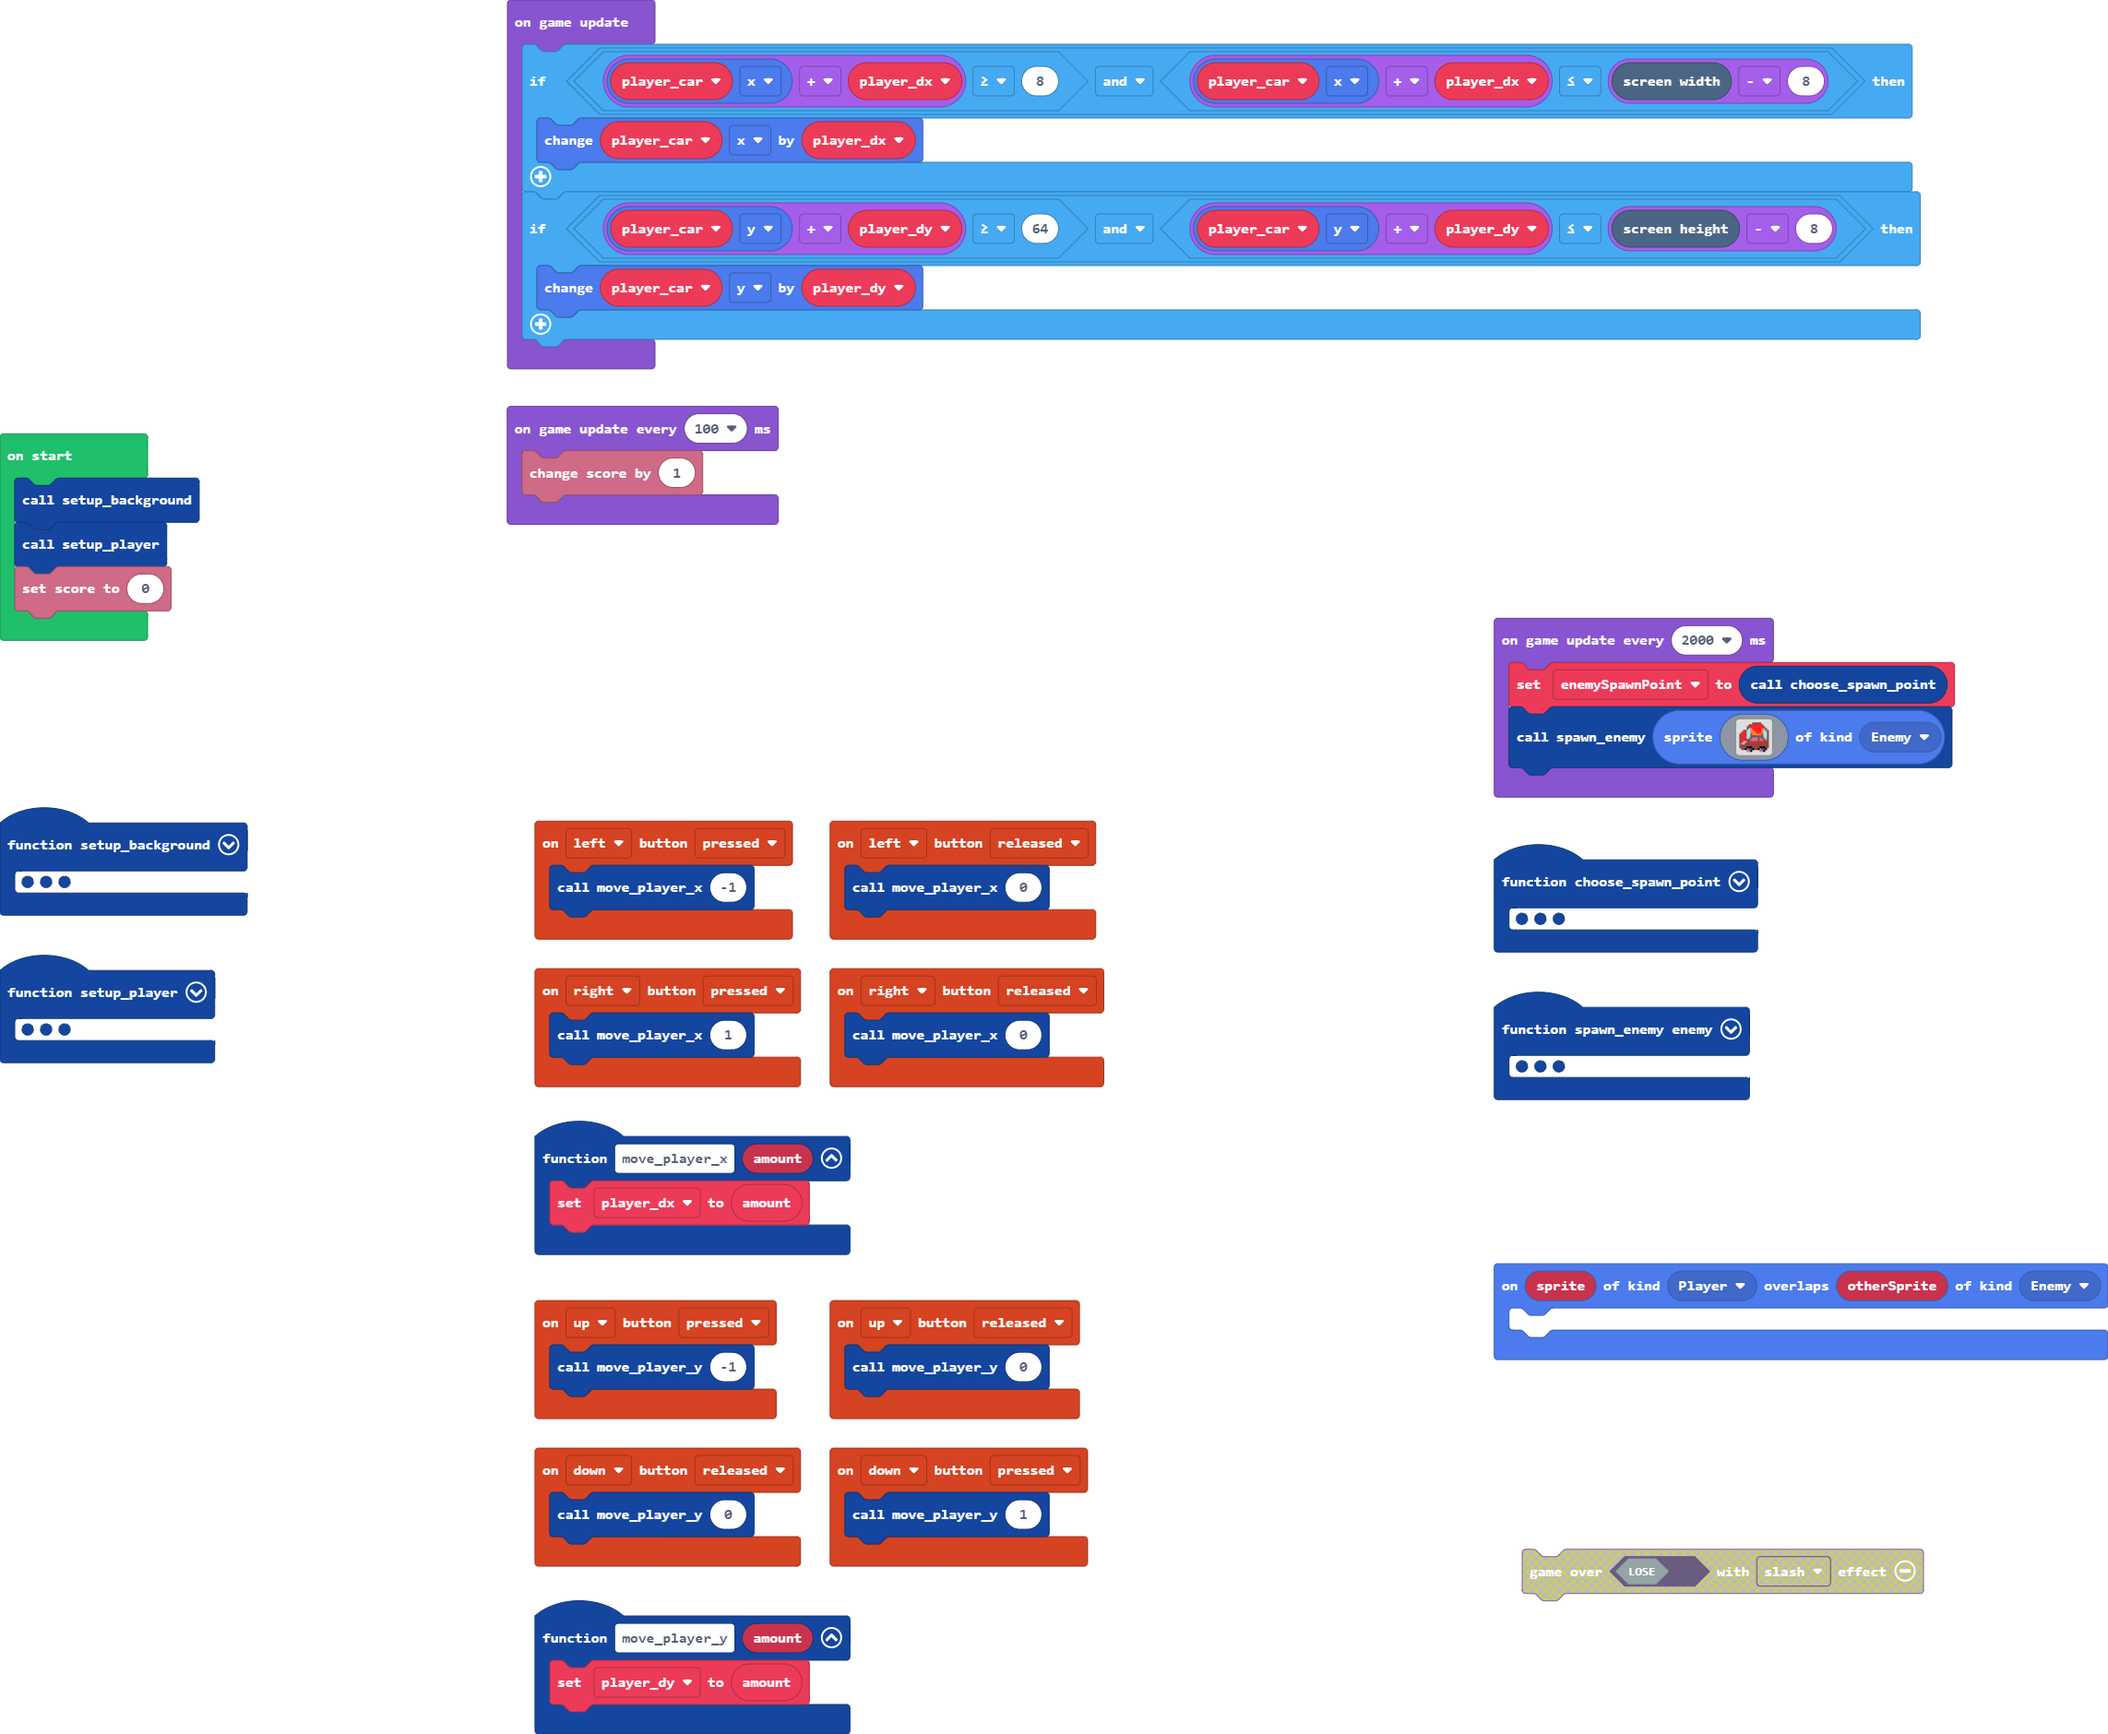
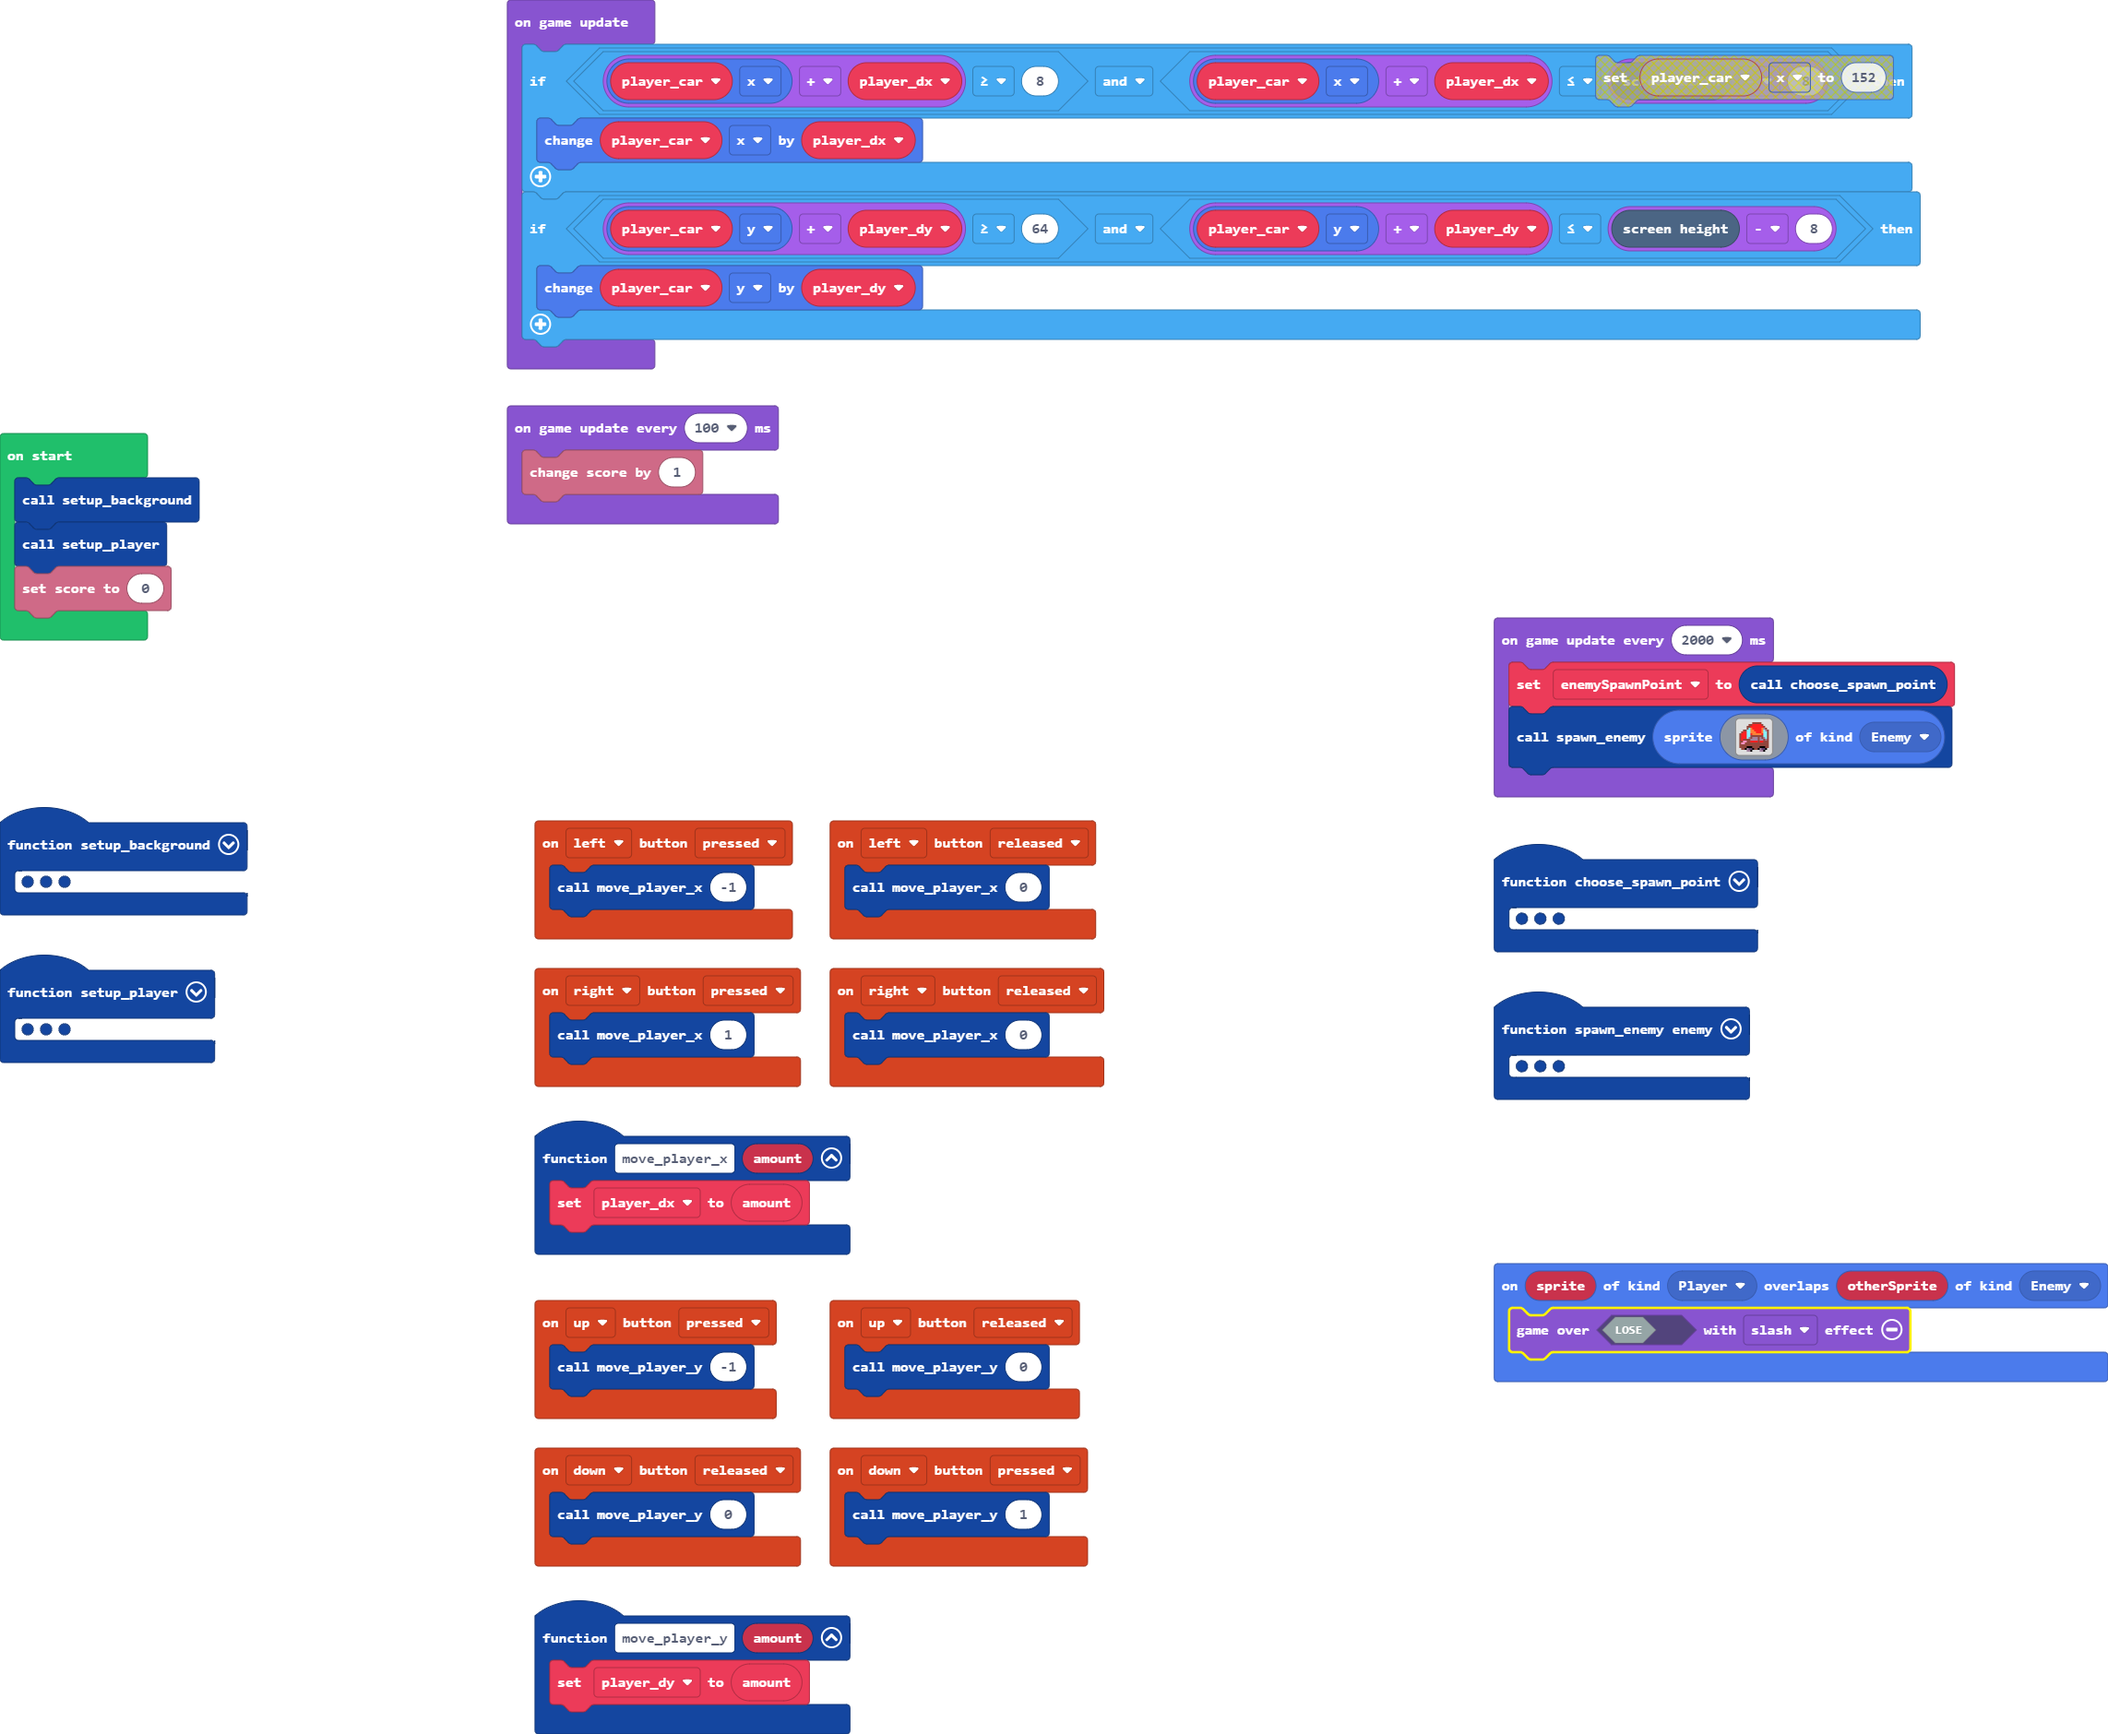
Reinstated losing

diff --git a/main.ts b/main.ts
@@ -137,7 +137,7 @@ function spawn_enemy (enemy: Sprite) {
     )
 }
 sprites.onOverlap(SpriteKind.Player, SpriteKind.Enemy, function (sprite, otherSprite) {
-	
+    game.over(false, effects.slash)
 })
 let enemySpawnPoint = 0
 let player_dx = 0
